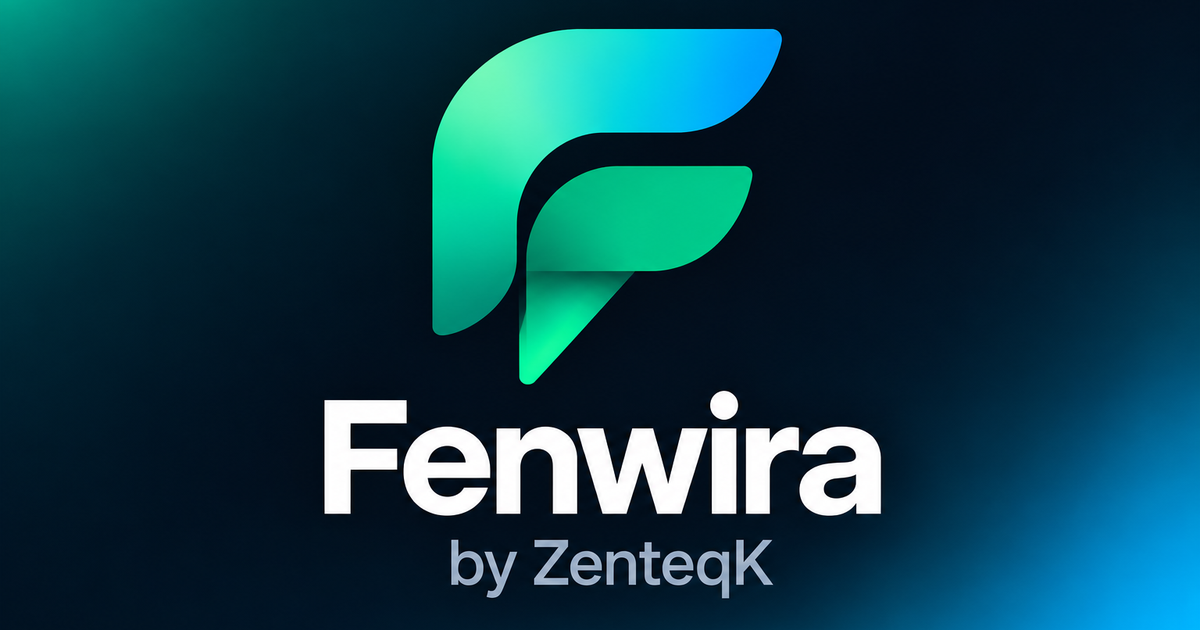
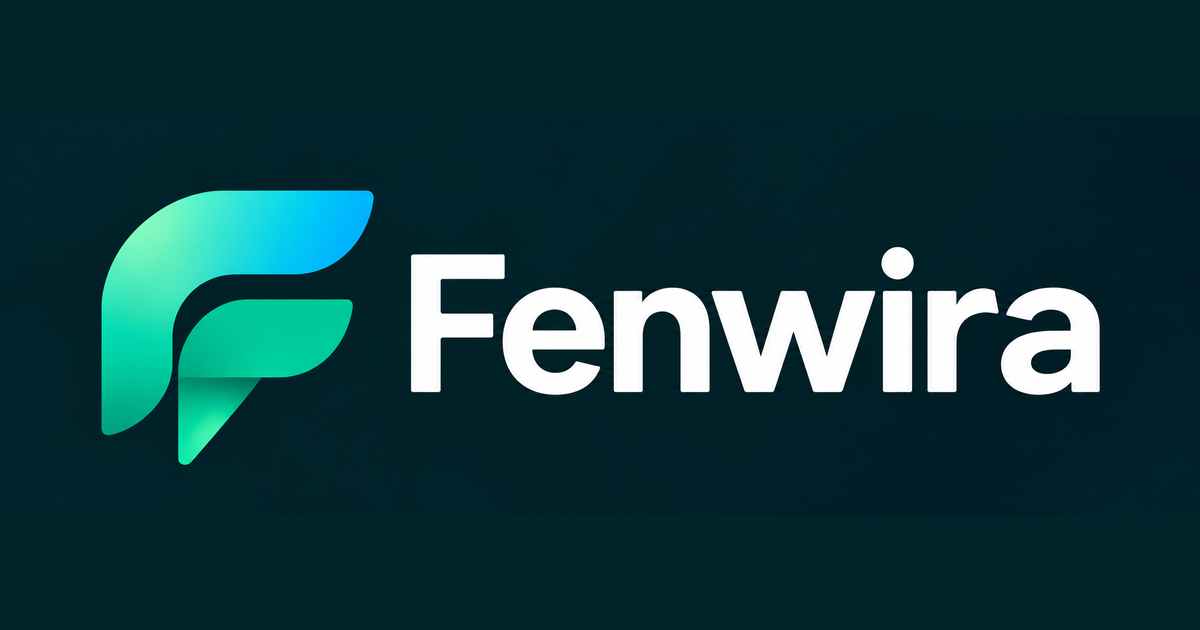
feat(brand): brand as "Fenwira" only with light and dark lockups
Retire the "Fenwira by ZenteqK" lockup. The auth, onboarding and
invitation pages now show the Ribbon Logo in the light theme and the
Leaf Emblem Banner in the dark theme, switched by data-theme so the logo
follows the Appearance menu. Link previews use the dark banner; page
metadata, the manifest and the email logo alt text drop "by ZenteqK".

diff --git a/apps/web/components/shell/brand-mark.tsx b/apps/web/components/shell/brand-mark.tsx
@@ -5,7 +5,8 @@ import Image from 'next/image'
  * Fenwira brand (docs/brand/README.md).
  * - `mark` (default): the F mark with the live "Fenwira" wordmark. `dark` sits on the slate
  *   sidebar; `compact` shows the mark alone (collapsed sidebar).
- * - `lockup`: the "Fenwira by ZenteqK" lockup for light surfaces (sign-in, onboarding, invitations).
+ * - `lockup`: the "Fenwira" lockup (sign-in, onboarding, invitations). Both artworks are rendered and
+ *   the one matching the current theme is shown (`fw-theme-*-only`, packages/ui theme.css).
  */
 export function BrandMark({
   tone = 'light',
@@ -21,17 +22,29 @@ export function BrandMark({
   variant?: 'mark' | 'lockup'
   className?: string
 }) {
-  if (variant === 'lockup')
+  if (variant === 'lockup') {
+    const img = cn('h-auto', size === 'lg' ? 'w-48' : 'w-36')
     return (
-      <Image
-        src="/brand/fenwira-lockup-light.png"
-        alt="Fenwira by ZenteqK"
-        width={960}
-        height={299}
-        priority
-        className={cn('h-auto', size === 'lg' ? 'w-48' : 'w-36', className)}
-      />
+      <span className={cn('inline-block', className)}>
+        <Image
+          src="/brand/fenwira-lockup-light.png"
+          alt="Fenwira"
+          width={960}
+          height={281}
+          priority
+          className={cn(img, 'fw-theme-light-only')}
+        />
+        <Image
+          src="/brand/fenwira-lockup-dark.png"
+          alt="Fenwira"
+          width={960}
+          height={278}
+          priority
+          className={cn(img, 'fw-theme-dark-only')}
+        />
+      </span>
     )
+  }
   const px = size === 'lg' ? 32 : 28
   return (
     <span

diff --git a/apps/api/src/modules/platform/email/templates.ts b/apps/api/src/modules/platform/email/templates.ts
@@ -22,7 +22,7 @@ function layout(
   // The brand lockup is served by the web app; every email's link points there, so its origin is
   // the web origin (docs/brand/README.md). Alt text keeps the name when images are blocked.
   const logo = `${new URL(cta.url).origin}/brand/fenwira-lockup-light.png`
-  const html = `<div style="${WRAP}"><p><img src="${escape(logo)}" alt="Fenwira by ZenteqK" width="160" height="50" style="display:block;border:0;height:auto"/></p><p style="font-size:18px;font-weight:600">${escape(title)}</p>${lines
+  const html = `<div style="${WRAP}"><p><img src="${escape(logo)}" alt="Fenwira" width="160" height="47" style="display:block;border:0;height:auto"/></p><p style="font-size:18px;font-weight:600">${escape(title)}</p>${lines
     .map((l) => `<p>${escape(l)}</p>`)
     .join(
       '',

diff --git a/apps/web/app/layout.tsx b/apps/web/app/layout.tsx
@@ -22,10 +22,10 @@ const mono = JetBrains_Mono({
 export const metadata: Metadata = {
   metadataBase: new URL(serverEnv.WEB_ORIGIN),
   title: { default: 'Fenwira', template: '%s · Fenwira' },
-  description: 'WhatsApp operations platform by ZenteqK',
+  description: 'WhatsApp operations platform',
   applicationName: 'Fenwira',
-  openGraph: { siteName: 'Fenwira', title: 'Fenwira by ZenteqK', type: 'website' },
-  twitter: { card: 'summary_large_image', title: 'Fenwira by ZenteqK' },
+  openGraph: { siteName: 'Fenwira', title: 'Fenwira', type: 'website' },
+  twitter: { card: 'summary_large_image', title: 'Fenwira' },
   icons: {
     icon: [
       {

diff --git a/packages/ui/src/styles/theme.css b/packages/ui/src/styles/theme.css
@@ -288,3 +288,15 @@
   pointer-events: none;
   background: linear-gradient(transparent, var(--color-chat-canvas));
 }
+
+/* Theme-specific artwork (the brand lockups): show the variant that matches the nearest
+   `data-theme`, so the logo follows the Appearance menu rather than the OS setting. */
+.fw-theme-dark-only {
+  display: none;
+}
+[data-theme='dark'] .fw-theme-dark-only {
+  display: block;
+}
+[data-theme='dark'] .fw-theme-light-only {
+  display: none;
+}

diff --git a/apps/web/app/manifest.ts b/apps/web/app/manifest.ts
@@ -6,7 +6,7 @@ export default function manifest(): MetadataRoute.Manifest {
   return {
     name: 'Fenwira',
     short_name: 'Fenwira',
-    description: 'WhatsApp operations platform by ZenteqK',
+    description: 'WhatsApp operations platform',
     start_url: '/dashboard',
     display: 'standalone',
     background_color: colorTokens.canvas,

diff --git a/scripts/brand-assets.py b/scripts/brand-assets.py
@@ -6,7 +6,7 @@ Usage: python3 scripts/brand-assets.py   (needs Pillow and numpy; a manual tool,
 Outputs (see docs/brand/README.md for where each one is used):
   apps/web/app/favicon.ico, public/brand/favicon-*.png  favicons (light/dark, by colour scheme)
   public/brand/apple-icon.png                           iOS home screen (full-bleed app icon)
-  apps/web/app/opengraph-image.png, twitter-image.png  link previews (dark banner, 1200x630)
+  apps/web/app/opengraph-image.png, twitter-image.png  link previews (dark lockup banner, 1200x630)
   apps/web/public/brand/*.png                          mark, lockups, manifest icons, brand kit
 """
 from collections import deque
@@ -89,6 +89,20 @@ def white_to_alpha(img: Image.Image) -> Image.Image:
     return Image.fromarray(out, 'RGBA')
 
 
+def dark_to_alpha(img: Image.Image) -> Image.Image:
+    """Removes the near-uniform dark background of the dark lockup: pixels close to the background
+    colour become transparent, a soft band keeps the antialiased edges, and edge colours are
+    un-mixed from the background so they stay clean on any dark surface."""
+    a = np.asarray(img.convert('RGB')).astype(np.float64)
+    bg = np.median(np.concatenate([a[:24].reshape(-1, 3), a[-24:].reshape(-1, 3)]), axis=0)
+    dist = np.sqrt(((a - bg) ** 2).sum(axis=2))
+    alpha = np.clip((dist - 14) / 60, 0, 1)
+    safe = np.where(alpha > 0, alpha, 1)[..., None]
+    rgb = np.clip((a - bg * (1 - alpha[..., None])) / safe, 0, 255)
+    out = np.dstack([rgb, alpha * 255]).astype(np.uint8)
+    return Image.fromarray(out, 'RGBA')
+
+
 def card(img: Image.Image, dark: bool, size: int) -> Image.Image:
     """A favicon from a rounded-square icon: cropped to the card's outline (found on the middle
     row and column), with transparent rounded corners, at `size` px."""
@@ -152,23 +166,27 @@ save(icon.resize((180, 180), Image.LANCZOS), PUB / 'apple-icon.png')
 for s in (192, 512):
     save(icon.resize((s, s), Image.LANCZOS), PUB / f'app-icon-{s}.png')
 
-# Light-surface lockup: auth pages and transactional email header.
-lockup = trim(white_to_alpha(load('Fenwira_primary_logo_light.png')), pad=0.01)
-save(lockup.resize((960, round(960 * lockup.height / lockup.width)), Image.LANCZOS), PUB / 'fenwira-lockup-light.png')
+# Lockups ("Fenwira" only): light for light surfaces, dark for dark surfaces. Auth pages pick by
+# theme; the transactional email header uses the light one.
+LOCKUP_W = 960
+lockup = trim(white_to_alpha(load('Fenwira Ribbon Logo.png')), pad=0.01)
+save(lockup.resize((LOCKUP_W, round(LOCKUP_W * lockup.height / lockup.width)), Image.LANCZOS), PUB / 'fenwira-lockup-light.png')
+dark_lockup = trim(dark_to_alpha(load('Fenwira Leaf Emblem Banner.png')), pad=0.01)
+dark_lockup = dark_lockup.resize((LOCKUP_W, round(LOCKUP_W * dark_lockup.height / dark_lockup.width)), Image.LANCZOS)
+save(dark_lockup, PUB / 'fenwira-lockup-dark.png')
 
-# Link previews: dark banner, 1200x630 (content is centred; crop the 1.9:1 band).
-banner = load('Fenwira_stacked_logo.png').convert('RGB')
-bh = round(banner.width / 1.905)
-top = (banner.height - bh) // 2
-og = banner.crop((0, top, banner.width, top + bh)).resize((1200, 630), Image.LANCZOS)
+# Link previews: the dark banner centred on its own background, 1200x630.
+banner = load('Fenwira Leaf Emblem Banner.png').convert('RGB')
+bg = tuple(int(c) for c in np.median(np.asarray(banner)[:24].reshape(-1, 3), axis=0))
+og = Image.new('RGB', (1200, 630), bg)
+fit = banner.resize((1200, round(1200 * banner.height / banner.width)), Image.LANCZOS)
+og.paste(fit, (0, (630 - fit.height) // 2))
 save(og, APP / 'opengraph-image.png')
 save(og, APP / 'twitter-image.png')
 
 # Brand kit (not used by the UI directly): documented in docs/brand/README.md.
 for src, dst, size in (
-    ('Fenwira_primary_logo_dark.png', 'fenwira-lockup-dark.png', 1200),
     ('Fenwira_rounded_icon.png', 'fenwira-rounded-icon.png', 1024),
-    ('Fenwira_stacked_logo.png', 'fenwira-stacked-logo.png', 1536),
 ):
     img = load(src).convert('RGB')
     save(img.resize((size, round(size * img.height / img.width)), Image.LANCZOS), PUB / dst)

diff --git a/docs/brand/README.md b/docs/brand/README.md
@@ -8,16 +8,18 @@ The originals are in `images/` at the repository root. Web derivatives are gener
 | `Fenwira_favicon_light.png`                  | `public/brand/favicon-light.png`, `apps/web/app/favicon.ico`                                                | Browser favicon for light colour schemes (`/favicon.ico` for legacy requests)                                                                                                                                                   |
 | `Fenwira_Favicon_dark.png`                   | `public/brand/favicon-dark.png`                                                                             | Browser favicon for dark colour schemes                                                                                                                                                                                         |
 | `Fenwira_App_Icon.png`                       | `public/brand/apple-icon.png` (180), `app-icon-192.png`, `app-icon-512.png`                                 | iOS home screen and the web app manifest (`app/manifest.ts`). Cropped full-bleed so platform masks never show the white margin.                                                                                                 |
-| `Fenwira_primary_logo_light.png`             | `public/brand/fenwira-lockup-light.png` (white made transparent)                                            | "Fenwira by ZenteqK" on light surfaces: sign-in and registration, onboarding, invitation acceptance, and the header of every transactional email                                                                                |
-| `Fenwira_stacked_logo.png`                   | `apps/web/app/opengraph-image.png`, `twitter-image.png` (1200×630), `public/brand/fenwira-stacked-logo.png` | Link previews; the stacked logo for dark banners                                                                                                                                                                                |
-| `Fenwira_primary_logo_dark.png`              | `public/brand/fenwira-lockup-dark.png`                                                                      | Dark backgrounds that can show the logo's own background (presentations, dark marketing). The glows are part of the artwork and can't be separated cleanly, so the dark sidebar uses the symbol plus the live wordmark instead. |
+| `Fenwira Ribbon Logo.png` | `public/brand/fenwira-lockup-light.png` (white made transparent) | The "Fenwira" lockup on light surfaces: sign-in and registration, onboarding and invitation acceptance in the light theme, and the header of every transactional email |
+| `Fenwira Leaf Emblem Banner.png` | `public/brand/fenwira-lockup-dark.png` (dark background made transparent); `apps/web/app/opengraph-image.png`, `twitter-image.png` (1200×630, on its own background) | The "Fenwira" lockup on dark surfaces (the same pages in the dark theme) and link previews |
 | `Fenwira_rounded_icon.png`                   | `public/brand/fenwira-rounded-icon.png`                                                                     | Round avatar: the WhatsApp Business profile photo and social profiles. It is uploaded in Meta's WhatsApp Manager; Fenwira doesn't set it.                                                                                       |
+
+The product is branded **Fenwira** only. `Fenwira_primary_logo_light.png`, `Fenwira_primary_logo_dark.png` and `Fenwira_stacked_logo.png` carry the retired "Fenwira by ZenteqK" lockup and are no longer used.
 
 Rules:
 
 - The logo's gradient lives only in these images. UI colours stay the design-system tokens (`docs/design/FENWIRA_DESIGN_SYSTEM.md`): the logo is not a source of new UI colours.
+- `BrandMark variant="lockup"` renders both lockups and shows the one matching the current theme (`fw-theme-light-only` / `fw-theme-dark-only` in `packages/ui/src/styles/theme.css`). Never place the light lockup on a dark surface or the reverse.
 - Use the lockups as supplied, at least 120 px wide, with clear space of at least the height of the "F" crossbar.
-- Always give the image text: `alt="Fenwira by ZenteqK"` for lockups, `alt="Fenwira"` for the symbol alone, and `alt=""` when the name is already written next to it.
+- Always give the image text: `alt="Fenwira"` for the lockups and the symbol alone, and `alt=""` when the name is already written next to it.
 
 ## Third-party logos
 
